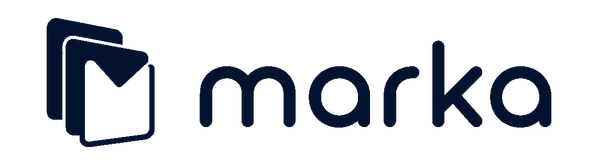
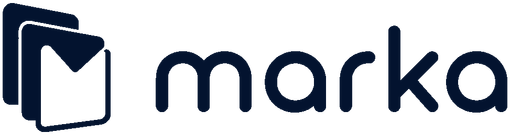
fix(brand): trim Marka header wordmarks

Changed region(s): [[0.2941, 0.1778, 1.0, 0.8593], [0.0, 0.0, 0.2647, 0.9778]]

diff --git a/.superpowers/sdd/2026-08-14-marka-phase-1-identity/header-wordmark-trim-report.md b/.superpowers/sdd/2026-08-14-marka-phase-1-identity/header-wordmark-trim-report.md
@@ -1,0 +1,14 @@
+# Header wordmark trim report
+
+- Trimmed only the transparent Marka wordmark outputs. The initial ImageMagick bounds were `510x135+44+15`; the regenerated PNG canvases are `510x135` with no transparent border.
+- Added explicit `trim: true` declarations for the web, landing, documentation, and screenshot transparent wordmarks. Social cards, PWA icons, and favicon assets have no trim declarations and were not regenerated.
+- The generator now stages `magick <input> -trim -strip <output>`, then re-encodes the staged image deterministically. This preserves ImageMagick trim geometry without nondeterministic metadata.
+- The navy and white web header wordmarks retain matching 510px by 135px RGBA alpha geometry and their exact approved navy and white pixel colors.
+- Refreshed the matching Downloads review assets: `marka-wordmark-navy.png`, `marka-wordmark-white.png`, and `marka-logo.png`.
+
+## Verification
+
+- `mise exec node@24 -- pnpm test:marka-assets` passed, 9 tests, including source-byte preservation and deterministic regeneration.
+- `mise exec node@24 -- pnpm assets:marka` regenerated only the declared transparent wordmark derivatives.
+- `magick identify` confirmed both web wordmarks are `510x135`.
[1 lines of base64/hex data omitted]
